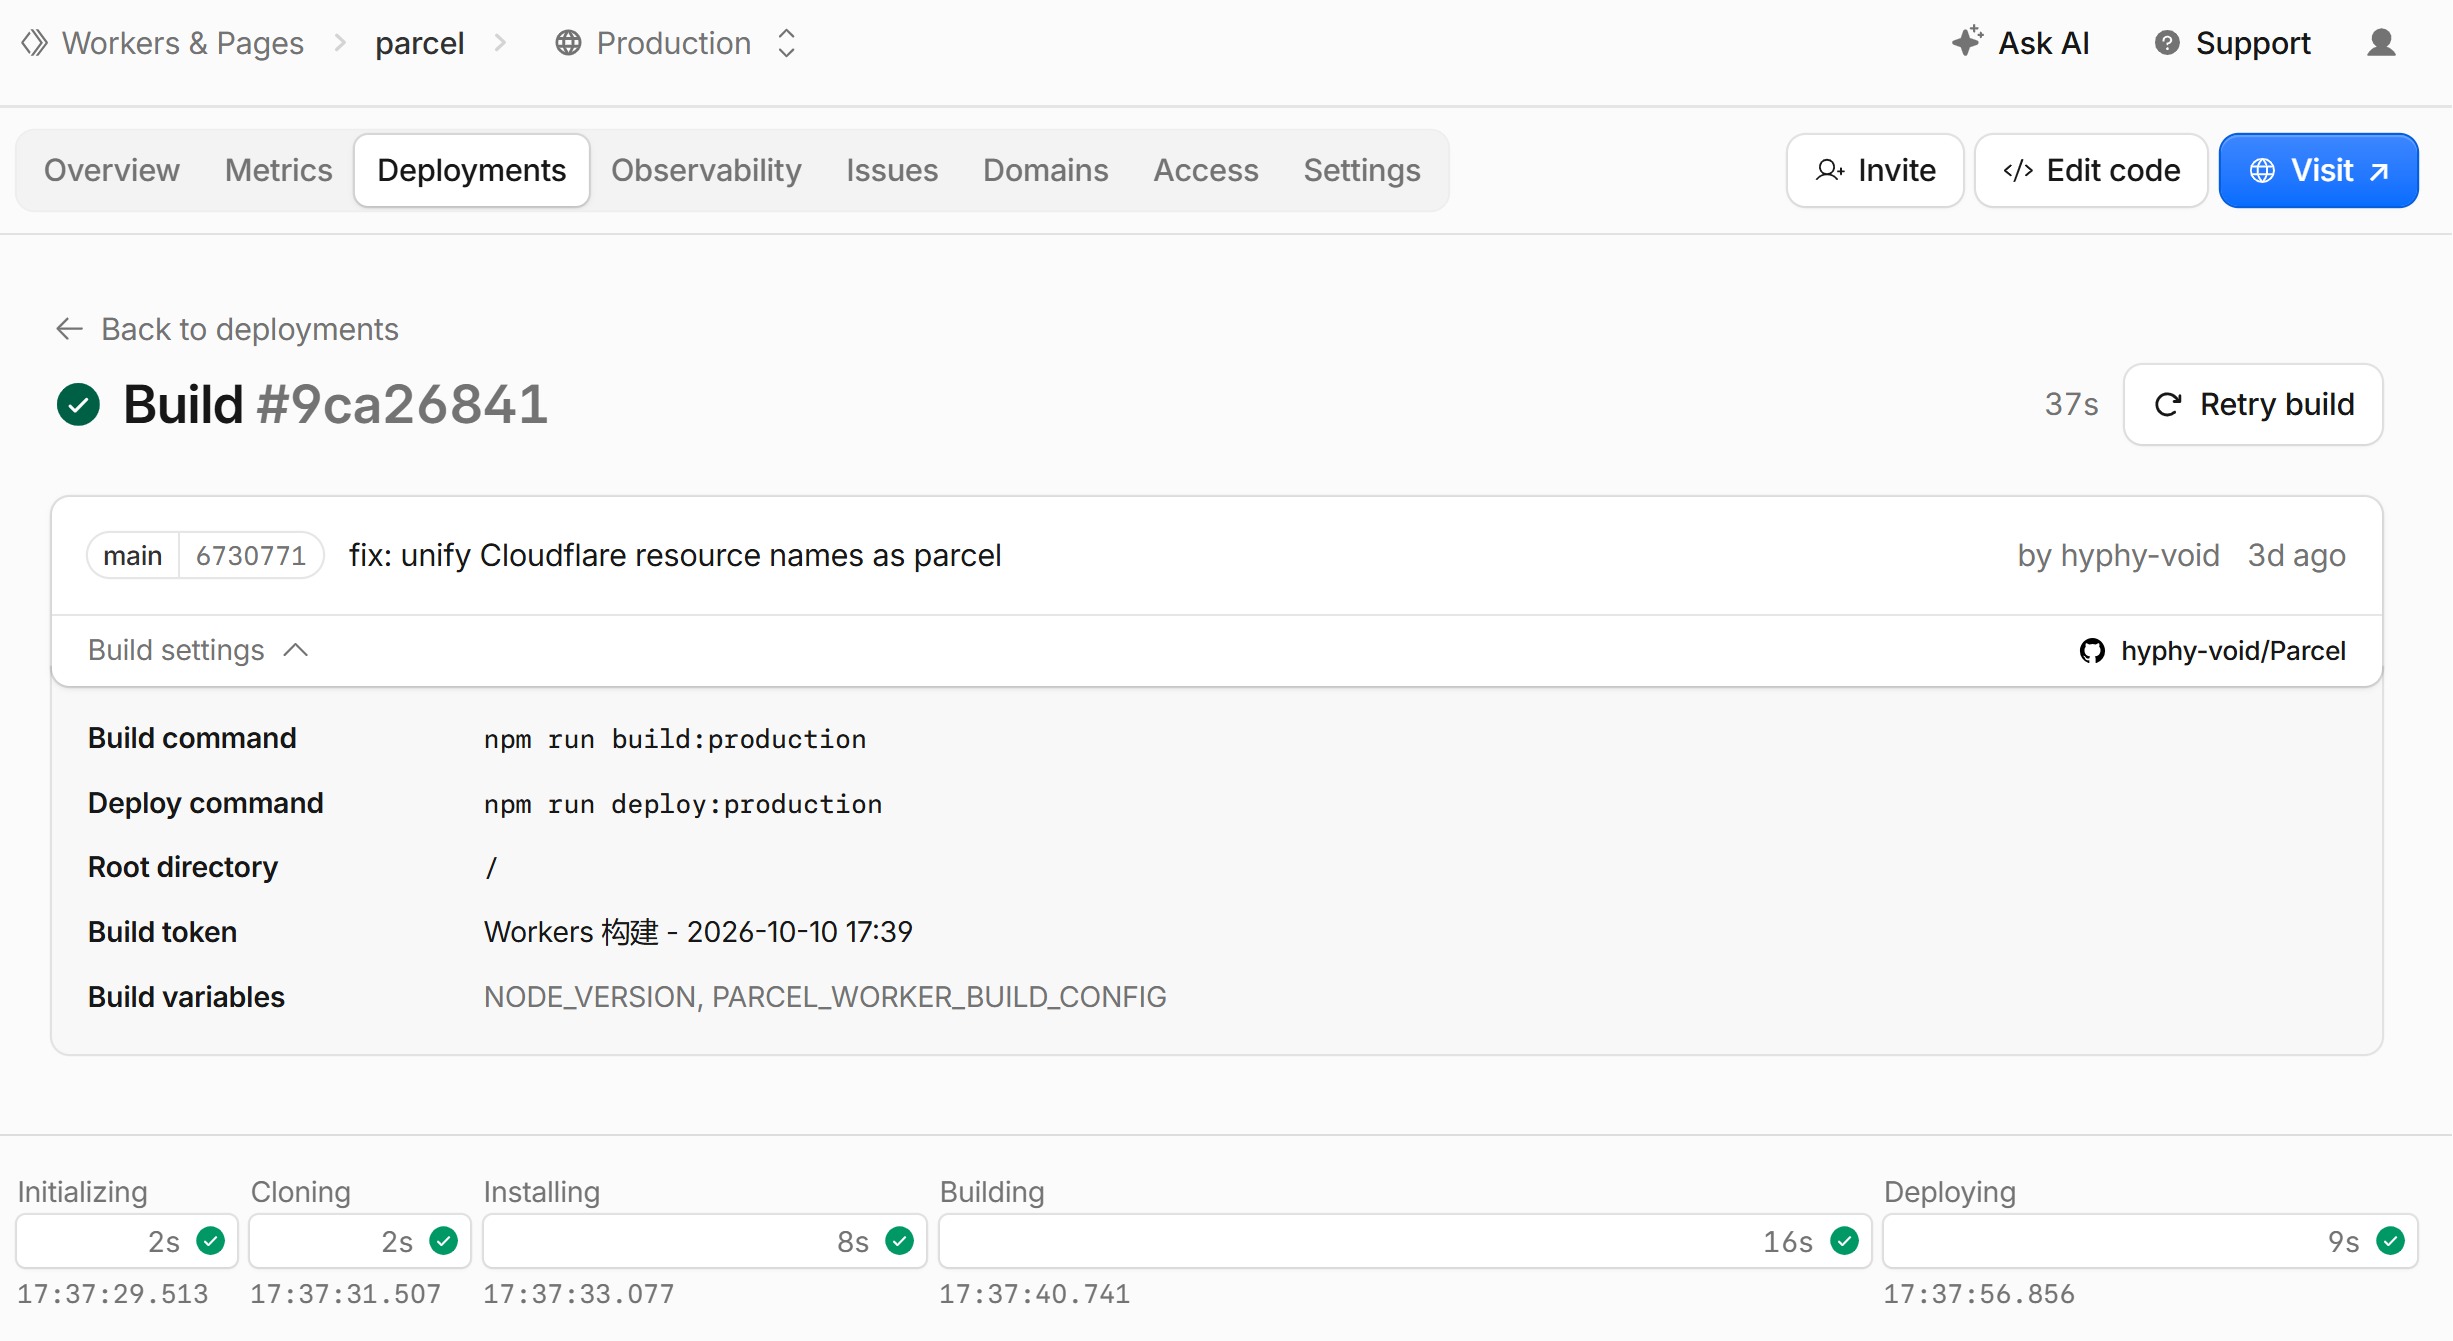
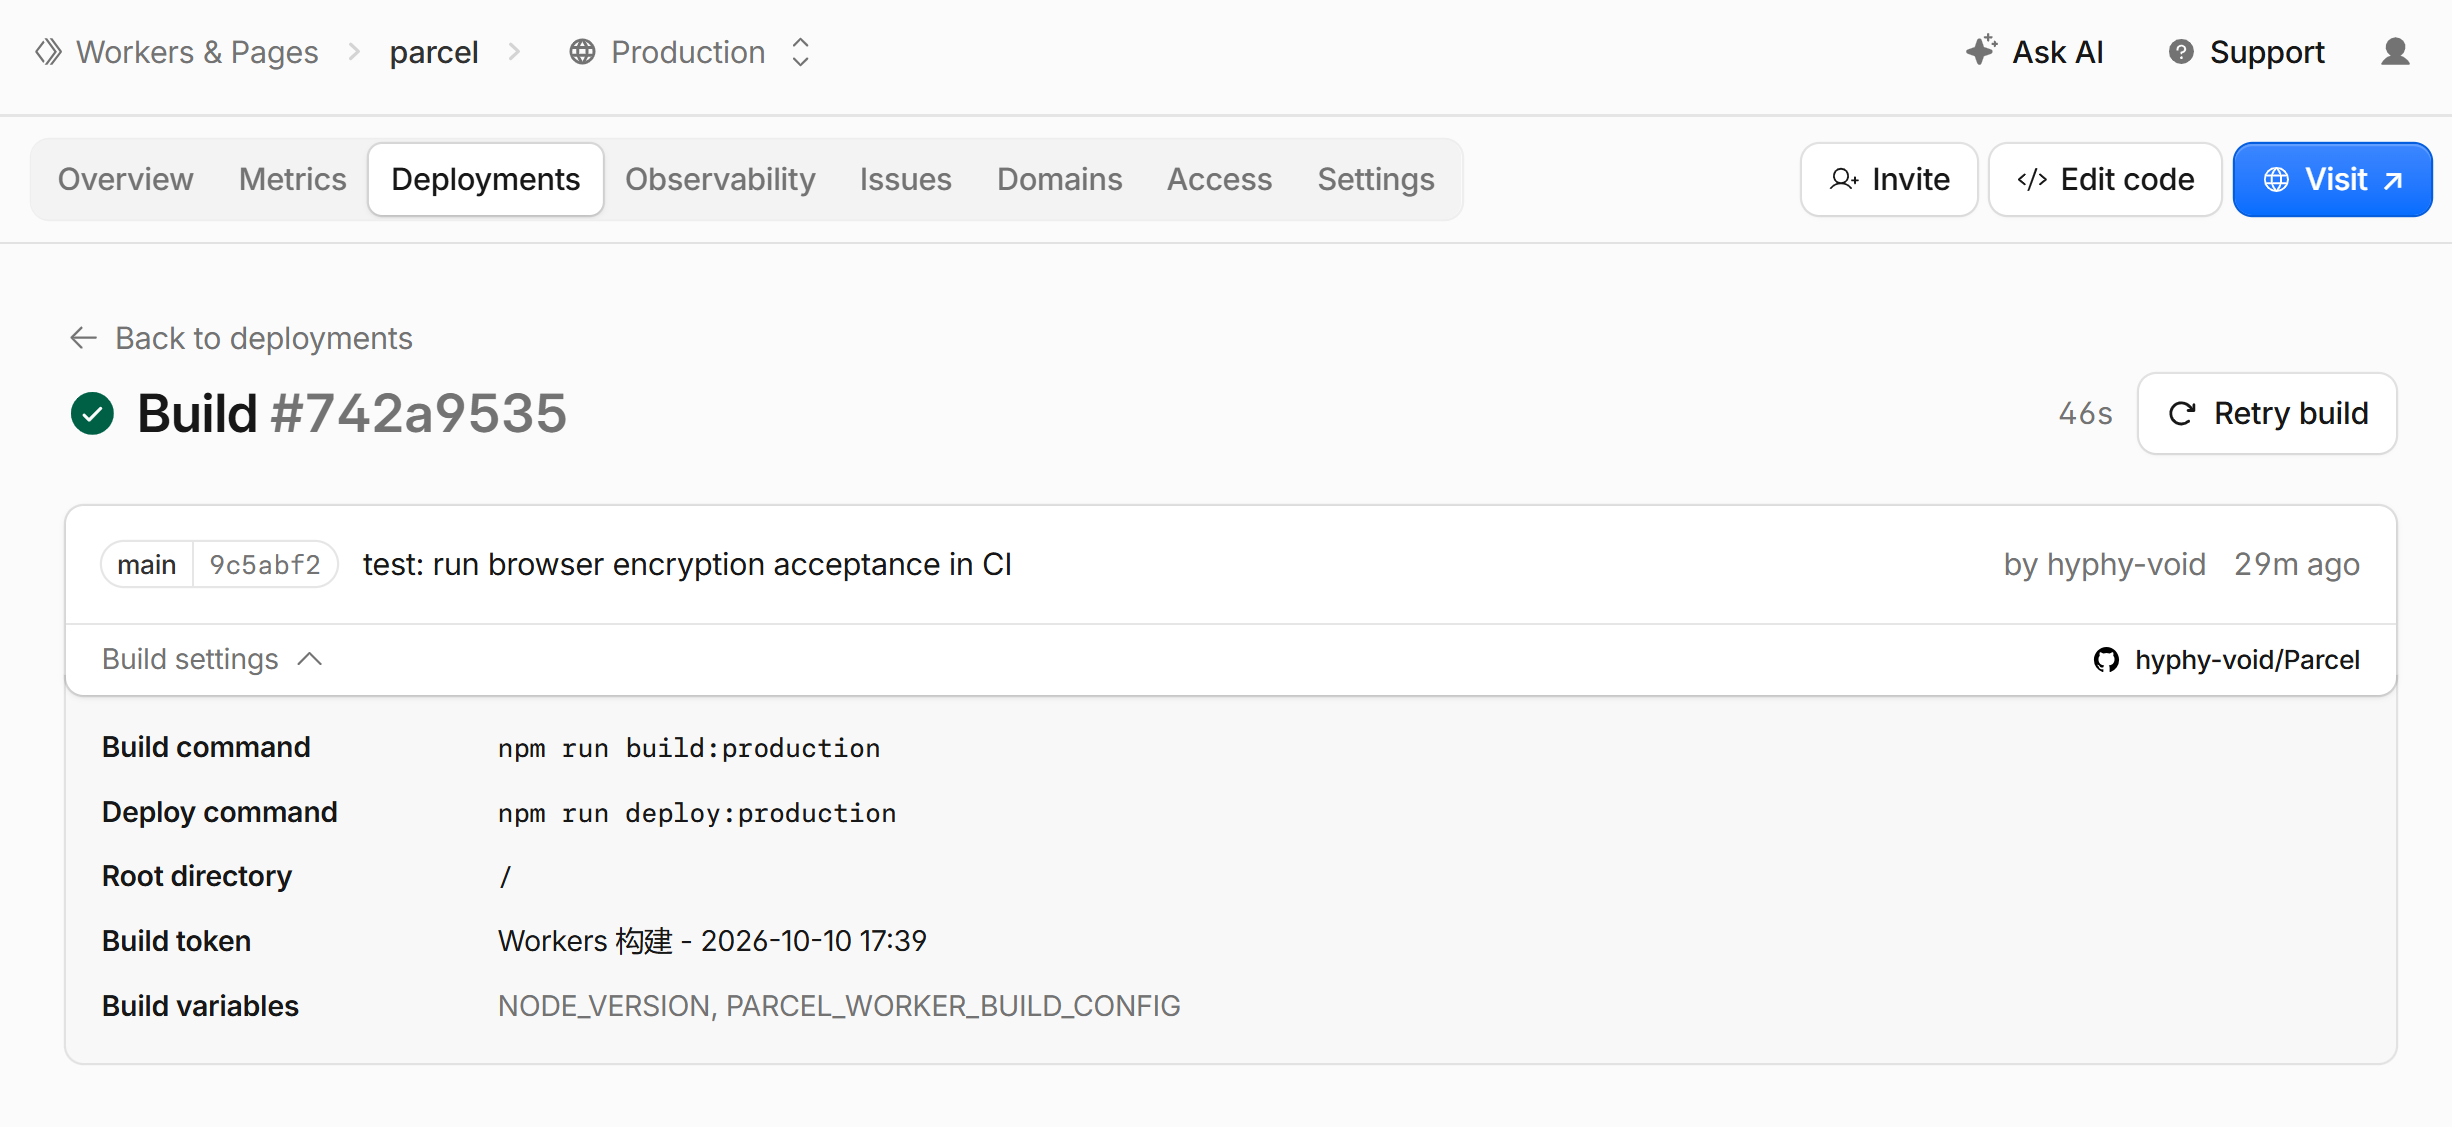
docs: refresh production build tutorial screenshot

diff --git a/docs/site/index.html b/docs/site/index.html
@@ -328,16 +328,17 @@
                   <a href="images/template-build.webp"
                     ><img
                       src="images/template-build.webp"
-                      alt="Successful production parcel build with every build and deployment stage passing"
-                      width="2453"
-                      height="1341"
+                      alt="Successful production parcel build for commit 9c5abf2 with expanded production build settings"
+                      width="2452"
+                      height="1127"
                       loading="lazy"
                   /></a>
                   <figcaption>
                     A successful build of the existing production parcel
                     instance. Build settings shows npm run build:production, npm
-                    run deploy:production, and root directory /; every stage
-                    below passed. This illustrates a production update. New
+                    run deploy:production, and root directory /. The green check
+                    marks a successful build of commit 9c5abf2. This illustrates
+                    a production update. New
                     button deployments must use npm run build and npm run
                     deploy, without :production.
                   </figcaption>

diff --git a/docs/site/zh.html b/docs/site/zh.html
@@ -306,15 +306,15 @@
                   <a href="images/template-build.webp"
                     ><img
                       src="images/template-build.webp"
-                      alt="正式 parcel 实例的构建详情，构建与部署各阶段均成功"
-                      width="2453"
-                      height="1341"
+                      alt="正式 parcel 实例的成功构建，提交 9c5abf2 与展开的生产构建设置"
+                      width="2452"
+                      height="1127"
                       loading="lazy"
                   /></a>
                   <figcaption>
                     正式 parcel 实例的成功构建：Build settings 显示 npm run
                     build:production、npm run deploy:production 与根目录
-                    /，下方各阶段均通过。这是既有实例的生产构建示例；新用户按钮部署应使用
+                    /；顶部绿色勾号表示构建成功，图中提交为 9c5abf2。这是既有实例的生产构建示例；新用户按钮部署应使用
                     npm run build 与 npm run deploy，不能照抄这里带 :production
                     的命令。
                   </figcaption>

diff --git a/scripts/prepare-tutorial-images.py b/scripts/prepare-tutorial-images.py
@@ -27,7 +27,7 @@ REVIEWED = {
         ((306, 410, 809, 451), 'https://parcel.example.com', 26),
     ]),
     'r2-token': ((2327, 2345), (2327, 2345), []),
-    'template-build': ((2453, 1341), (2453, 1341), []),
+    'template-build': ((2452, 1127), (2452, 1127), []),
     'variables': ((1750, 1859), (1536, 1631), [
         ((706, 194, 1340, 243), 'YOUR_ACCESS_AUD', 24),
         ((706, 289, 1340, 338), 'https://YOUR_TEAM.cloudflareaccess.com', 24),
@@ -57,6 +57,7 @@ REFRESHED = {
 def main():
     parser = argparse.ArgumentParser(description=__doc__)
     parser.add_argument('source', type=Path)
+    parser.add_argument('--only', nargs='+', choices=sorted(REVIEWED), help='Encode only the selected reviewed captures')
     parser.add_argument('--refresh', action='store_true', help='Encode the reviewed 2026-10-20 variables and CORS captures only')
     parser.add_argument('--cors-complete', type=Path, help='Use the reviewed 1396x719 native dashboard capture after saving the complete CORS policy')
     default_font = 'C:/Windows/Fonts/segoeui.ttf'
@@ -64,7 +65,12 @@ def main():
     args = parser.parse_args()
     target = ROOT / 'docs/site/images'
     target.mkdir(parents=True, exist_ok=True)
-    for name, (expected, review, labels) in (REFRESHED if args.refresh else REVIEWED).items():
+    captures = REFRESHED if args.refresh else REVIEWED
+    if args.only:
+        if any(name not in captures for name in args.only):
+            parser.error('--only must name a capture available in the selected refresh')
+        captures = {name: captures[name] for name in args.only}
+    for name, (expected, review, labels) in captures.items():
         with Image.open(args.source / f'{name}.png') as source:
             if source.size != expected:
                 raise ValueError(f'{name}: review changed dimensions {source.size} before redacting')

diff --git a/docs/site/README.md b/docs/site/README.md
@@ -24,6 +24,8 @@ Screenshots were replaced on 2026-10-19 with user-reviewed PNGs from the actual 
 
 The `template-build.webp` filename is retained for link compatibility, but now shows an existing production instance using `build:production` / `deploy:production`. Both captions distinguish that from new button deployments using `build` / `deploy`. The refreshed CORS screenshot shows the saved policy with `X-Amz-Meta-Parcel-Upload`; the generator provides the complete copyable JSON.
 
+The latest `template-build.webp` refresh is the user-reviewed 2452×1127 PNG of successful build `742a9535` for commit `9c5abf2`, captured on 2026-10-20. It shows the success check and expanded production build settings; per-stage logs are outside this capture. Encode only this screenshot with `python scripts/prepare-tutorial-images.py /path/to/capture-folder --only template-build`. The encoder preserves the original dimensions, removes source metadata, and verifies every decoded pixel against the RGB source.
+
 2026-10-20 refresh: the guide documents native password + TOTP enrollment with an inline process diagram, recovery, and optional Access. The local configuration generator explicitly selects ADMIN_AUTH. Cloudflare V3 now encrypts file chunks and metadata in the browser, stores ciphertext in R2, and decrypts locally on receipt. The security section separates fragment/link and optional password key wrapping from the independently salted online password gate, and states the endpoint trust boundary. The new encrypted-sharing chapter covers full-file upload verification, local key backup, ciphertext staging, streaming save, browser quota and disk requirements, and incompatible old V3 shares. Independent Go/origin builds retain their earlier protocol and are not E2EE. No real enrollment QR code, seed, or recovery code is published. The screenshot FAQ identifies affected application screens; the eight Cloudflare configuration captures remain applicable.
 
 The refreshed variables screenshot uses the reviewed 1886×2200 PNG. Run `python scripts/prepare-tutorial-images.py newcapture --refresh --cors-complete .parcel-v3/deployment-proofs/r2-cors-native.png` to encode the refresh with permanent identity masks and pixel-verified lossless WebP. Raw captures stay ignored and unmodified. The supplied CORS capture omitted X-Amz-Meta-Parcel-Upload, so the published image uses a new real capture taken after saving the corrected policy. The native 1396×719 screenshot is cropped to its 675×640 dialog and its origin is covered by an example label; no policy code is painted into the screenshot.
